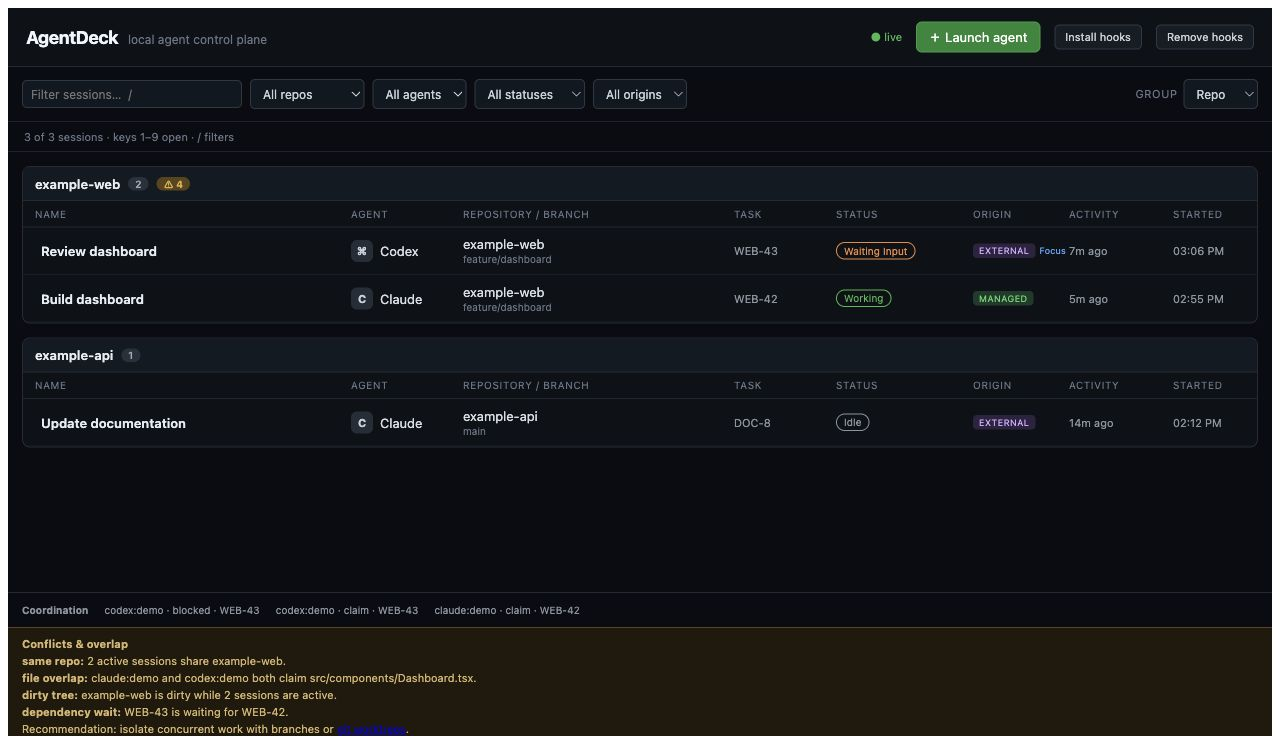
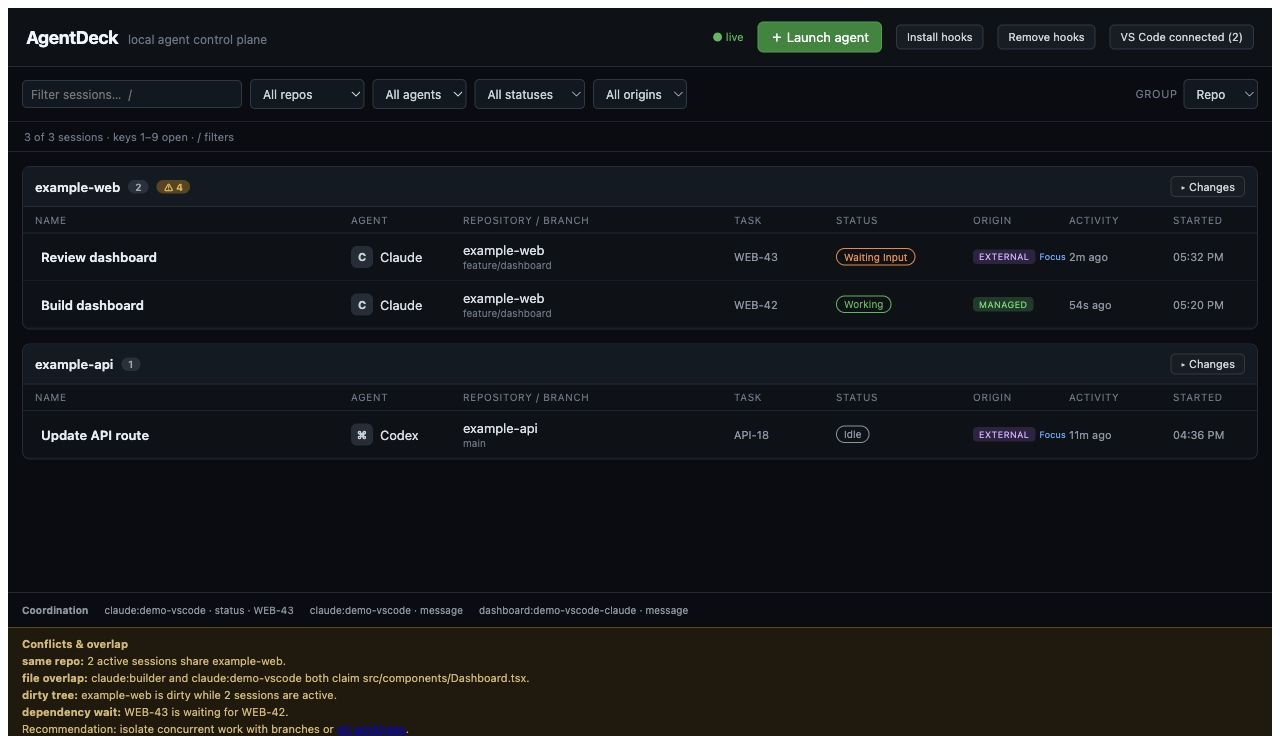
chore: update README.md

diff --git a/README.md b/README.md
@@ -2,7 +2,7 @@
 
 **A local-first macOS control panel for Claude Code and Codex CLI sessions.**
 
-AgentDeck gives you one dashboard for starting agents, discovering agents that are already running, opening managed terminal sessions, tracking status, focusing external terminal tabs, sending follow-up messages, and spotting risky concurrent work across repositories.
+AgentDeck gives you one dashboard for starting agents, discovering agents that are already running, opening managed terminal sessions, tracking status, reviewing code changes as they land, focusing external terminal tabs, sending follow-up messages, and spotting risky concurrent work across repositories.
 
 - Runs locally and binds only to `127.0.0.1`
 - Supports Claude Code and Codex CLI
@@ -15,9 +15,21 @@ AgentDeck gives you one dashboard for starting agents, discovering agents that a
 
 ### Live agent dashboard
 
-The dashboard groups sessions by repository and shows agent type, branch, task, status, origin, activity, coordination events, and conflicts.
+The dashboard groups sessions by repository and shows agent type, branch, task, status, origin, activity, coordination events, conflicts, and expandable live code changes.
 
 ![AgentDeck dashboard with fictional example sessions](docs/screenshots/dashboard.jpg)
+
+### Review code changes
+
+Expand a repository or session to inspect staged, unstaged, untracked, and branch changes without leaving AgentDeck.
+
+![AgentDeck code changes viewer with a fictional repository diff](docs/screenshots/code-changes.jpg)
+
+### Inspect and message an external session
+
+Open an external session to see its repository, branch, process, TTY, terminal owner, conversation history, focus action, and prompt controls.
+
+![AgentDeck external session details with fictional conversation data](docs/screenshots/agent-details.jpg)
 
 ### Launch an agent
 
@@ -35,6 +47,7 @@ All screenshot data is fictional.
 - Focus a mapped Terminal.app, iTerm2, or VS Code integrated terminal from the dashboard.
 - Send prompts or follow-up messages to supported managed and external sessions.
 - Track whether an agent is starting, working, waiting for input, idle, completed, or gone.
+- Watch staged, unstaged, and untracked changes land live, or compare the current branch with its base branch.
 - Filter and group sessions by repository, agent, status, or origin.
 - Label sessions so long-running work is easier to identify.
 - Track tasks, file claims, blockers, progress, and completion through a repository-local coordination bus.
@@ -50,6 +63,7 @@ All screenshot data is fictional.
 | Repository scanner | Scans one directory level for Git repositories and linked worktrees, including branch and dirty-tree information. |
 | Safe branch selection | Can check out an existing local branch before launch, but refuses to switch branches while the working tree is dirty. |
 | Live dashboard | WebSocket updates, repository grouping, search, filters, editable labels, origin badges, activity times, and status-source tooltips. |
+| Code changes | Shows per-file status and line counts for uncommitted work or committed branch changes, with expandable colored diffs that refresh every five seconds. |
 | Terminal focus | Maps TTYs to Terminal.app, iTerm2, and connected VS Code terminals and can bring the exact terminal to the foreground. |
 | Agent status | Combines hook events, managed terminal output, process liveness, and sustained CPU activity using `hook > output > CPU` precedence. |
 | Hooks | Claude Code hooks report prompts, tool usage, edits, notifications, starts, and stops. Codex notify reports completed turns. |
@@ -145,7 +159,7 @@ AgentDeck continues running when Automation permission is unavailable.
 
 ### 8. Connect VS Code integrated terminals
 
-Click **Install VS Code helper**, then reload each open VS Code window once. The bundled local extension reports terminal shell process IDs to AgentDeck so prompts and focus actions reach the exact split terminal. It connects only to AgentDeck on loopback.
+Click **Install VS Code helper**, then reload each open VS Code window once. The bundled local extension reports terminal shell process IDs to AgentDeck so prompts and focus actions reach the exact split terminal. It connects only to AgentDeck on loopback. When connected, the header shows **VS Code connected (N)**, where `N` is the number of mapped integrated terminals.
 
 ### 9. Install hooks for richer status and messaging
 
@@ -153,7 +167,8 @@ From the dashboard:
 
 1. Open a session in the target repository (or select it with the repository filter).
 2. Click **Install hooks**.
-3. Run a turn in the agent so AgentDeck can associate the hook identity with the discovered session.
+3. Restart any Claude Code or Codex sessions that were already running when the hooks were installed.
+4. Run a turn in the agent so AgentDeck can associate the hook identity with the discovered session.
 
 The dashboard installer adds repository-level Claude hooks and a user-level Codex notify command. Existing hook commands are retained, timestamped backups are created, and an existing Codex notify command is chained.
 
@@ -226,6 +241,20 @@ Terminal.app and iTerm2 sessions use macOS Automation. VS Code integrated termin
 - Press `/` to focus the search box.
 - Press `1` through `9` to open the corresponding visible session.
 
+## Review Code Changes
+
+AgentDeck can show repository changes without leaving the dashboard:
+
+- Open a session and select its **Changes (N)** tab. `N` is the number of files with uncommitted changes. Managed sessions use **Terminal** as their other tab, while external sessions use **Overview**. The managed terminal stays connected when you switch tabs.
+- When the dashboard is grouped by **Repo**, click **Changes** in a repository header to expand the viewer below that repository's session rows. You can keep multiple repository viewers open at once.
+
+The viewer has two modes:
+
+- **Uncommitted** combines staged, unstaged, and untracked working-tree changes.
+- **vs base branch** shows committed changes on the current branch since it diverged from its base. AgentDeck resolves the base from `origin/HEAD`, then falls back to `main` or `master`.
+
+Each file shows its Git status (`M`, `A`, `D`, `R`, or `?`) and added/deleted line counts. Click a file to expand its colored unified diff. Binary files are identified without rendering text, and very large file diffs are limited to the first 512 KB. The summary and any open file diffs refresh every five seconds so you can follow an agent's edits as they land.
+
 ## How to Start, Stop, and Restart Agents
 
 ### Start a managed agent
@@ -293,6 +322,8 @@ Managed sessions expose their terminal directly in AgentDeck; type into that ter
 
 Messages sent from the dashboard and supported agent replies appear in the session conversation history.
 
+Direct prompt delivery can work before hooks are installed when AgentDeck can script the owning terminal. Capturing agent replies and richer status events requires hooks; restart any CLI sessions that were already open when the hooks were installed.
+
 ## Coordination Bus
 
 Each observed repository can contain:
@@ -355,6 +386,7 @@ For concurrent work, prefer separate branches or Git worktrees. Automatic worktr
 
 - The HTTP and WebSocket server binds to `127.0.0.1` only.
 - Browser requests must come from the exact loopback origin serving AgentDeck; other localhost sites are rejected.
+- Code-change requests are limited to repositories already known to AgentDeck, and file paths are constrained to their repository.
 - The main database is stored at `~/.agentdeck/agentdeck.db` by default.
 - Database files are restricted to the current OS user, and managed-session prompts, arguments, and environment overrides are kept in memory rather than persisted.
 - Repository coordination files are stored under each repository's `.agents/` directory.
